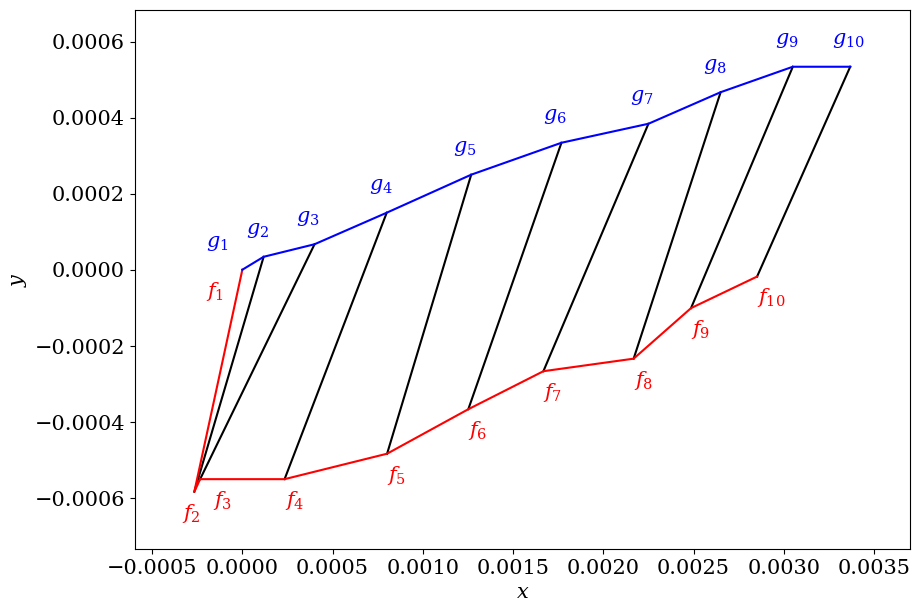
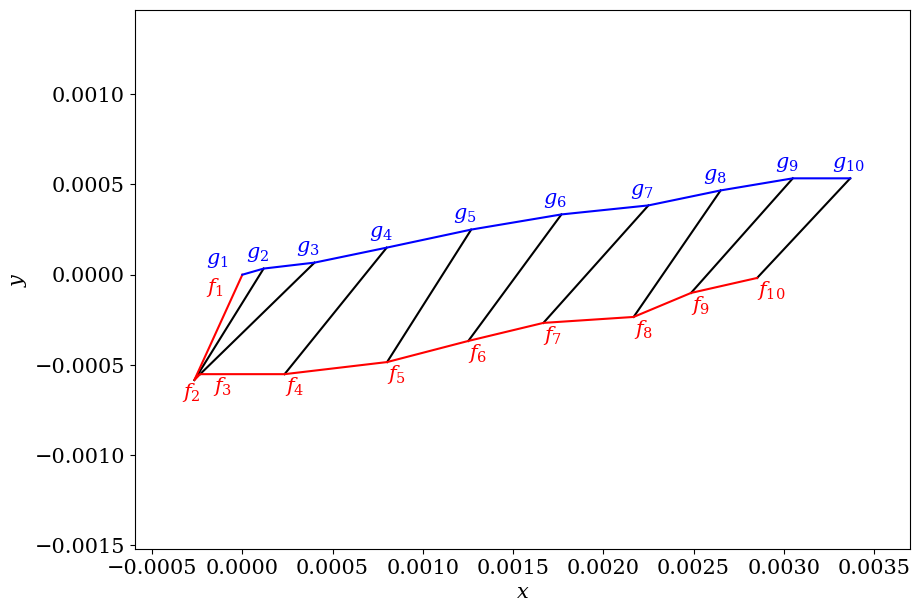
Add plot

diff --git a/illustrate.py b/illustrate.py
@@ -40,35 +40,191 @@ for subdir_name in actual_traj:
             lr = some_file
             
 print(min_len, lv, lr)
- 
+start_ix, end_ix = 0, 3
+print(actual_traj[lv][lr][0][0], actual_traj[lv][lr][1][0])
+print(long_dict[lv + "/cleaned_csv/" + lr]["long no abs"][0], lat_dict[lv + "/cleaned_csv/" + lr]["lat no abs"][0])
+print(len(long_dict[lv + "/cleaned_csv/" + lr]["long no abs"]), len(actual_traj[lv][lr][0]))
+plt.axis('equal')
+plt.plot(actual_traj[lv][lr][0][:10], actual_traj[lv][lr][1][:10], c = "b")
+plt.plot(long_dict[lv + "/cleaned_csv/" + lr]["long no abs"][:10], lat_dict[lv + "/cleaned_csv/" + lr]["lat no abs"][:10], c = "g")
+plt.plot(long_dict[lv + "/cleaned_csv/" + lr]["long speed dir"][:10], lat_dict[lv + "/cleaned_csv/" + lr]["lat speed dir"][:10], c = "r")
+plt.plot(long_dict[lv + "/cleaned_csv/" + lr]["long speed ones dir"][:10], lat_dict[lv + "/cleaned_csv/" + lr]["lat speed ones dir"][:10], c = "k")
+plt.show()
+plt.close()
+
+plt.figure(figsize=(15, 5))
 plt.rcParams['font.size'] = 20
 plt.rcParams['font.family'] = "serif"
 plt.rcParams["mathtext.fontset"] = "dejavuserif"
-plt.plot(actual_traj[lv][lr][0][:3], actual_traj[lv][lr][1][:3], c = "b")
-for xval_ix in range(len(actual_traj[lv][lr][0][:3]) - 1):
+plt.axis('equal')
+plt.plot(actual_traj[lv][lr][0][start_ix:end_ix], actual_traj[lv][lr][1][start_ix:end_ix], c = "b")
+for xval_ix in range(start_ix, end_ix):
     xval = actual_traj[lv][lr][0][xval_ix]
     yval = actual_traj[lv][lr][1][xval_ix]
     xval_next = actual_traj[lv][lr][0][xval_ix + 1]
     yval_next = actual_traj[lv][lr][1][xval_ix + 1]
     
-    yvals = np.arange(yval, yval_next, (yval_next - yval) / 1000)
+    yvals = np.arange(min(yval, yval_next), max(yval, yval_next) + 10 ** -20, (abs(yval_next - yval) + 10 ** -20) / 1000)
     xvals_first = [xval for val in yvals]
     xvals_second = [xval_next for val in yvals]
-    xvals = np.arange(xval, xval_next, (xval_next - xval) / 1000)
+    xvals = np.arange(min(xval, xval_next), max(xval, xval_next) + 10 ** -20, (abs(xval_next - xval) + 10 ** -20) / 1000)
     yvals_first = [yval for val in xvals]
     yvals_second = [yval_next for val in xvals]
-    #plt.plot(xvals_first, yvals, c = "r")
-    plt.plot(xvals_second, yvals, c = "r")
-    plt.plot(xvals, yvals_first, c = "r")
-    plt.text((xval + xval_next) / 2 - abs(xval - xval_next) / 4, yval + abs(yval - yval_next) / 8, "$x_{" + str(xval_ix + 2) + "}-x_{" + str(xval_ix + 1) + "}$")
+ 
     if xval_ix == 0:
-        plt.text(xval_next + abs(xval - xval_next) / 16, (yval + yval_next) / 2, "$y_{" + str(xval_ix + 2) + "}-y_{" + str(xval_ix + 1) + "}$")
+        plt.text((xval + xval_next) / 2 - abs(xval - xval_next) / 12, yval + abs(yval - yval_next) / 6, "$\Delta x_{" + str(xval_ix + 1) + "} = x_{" + str(xval_ix + 2) + "}-x_{" + str(xval_ix + 1) + "}$")
     else:
-        plt.text(xval_next - abs(xval - xval_next) / 3, (yval + yval_next) / 2, "$y_{" + str(xval_ix + 2) + "}-y_{" + str(xval_ix + 1) + "}$")
+        plt.text((xval + xval_next) / 2 - abs(xval - xval_next) / 5, yval_next - abs(yval - yval_next) / 3, "$\Delta x_{" + str(xval_ix + 1) + "} = x_{" + str(xval_ix + 2) + "}-x_{" + str(xval_ix + 1) + "}$")
 
-    #plt.plot(xvals, yvals_second, c = "r")
+    if xval_ix == 0:
+        plt.text(xval_next + abs(xval - xval_next) / 40, (yval + yval_next) / 2 - abs(yval - yval_next) / 6, "$\Delta y_{" + str(xval_ix + 1) + "} = y_{" + str(xval_ix + 2) + "}-y_{" + str(xval_ix + 1) + "}$")
+    else:
+        plt.text(xval - abs(xval - xval_next) / 4, (yval + yval_next) / 2 - abs(yval - yval_next) / 8, "$\Delta y_{" + str(xval_ix + 1) + "} = y_{" + str(xval_ix + 2) + "}-y_{" + str(xval_ix + 1) + "}$")
+
+    if xval_ix == 0:
+        plt.plot(xvals_second, yvals, c = "r")
+        plt.plot(xvals, yvals_first, c = "r")
+    else:
+        plt.plot(xvals_first, yvals, c = "r")
+        plt.plot(xvals, yvals_second, c = "r")
+
     print(len(xvals_first), yval, yval_next) 
 
+plt.title("Example")
+plt.xlabel("x")
+plt.ylabel("y")
+plt.show()
+plt.close()
+
+plt.figure(figsize=(15, 5))
+plt.rcParams['font.size'] = 20
+plt.rcParams['font.family'] = "serif"
+plt.rcParams["mathtext.fontset"] = "dejavuserif"
+plt.axis('equal')
+plt.plot(long_dict[lv + "/cleaned_csv/" + lr]["long no abs"][start_ix:end_ix], lat_dict[lv + "/cleaned_csv/" + lr]["lat no abs"][start_ix:end_ix], c = "b")
+for xval_ix in range(start_ix, end_ix):
+    xval = long_dict[lv + "/cleaned_csv/" + lr]["long no abs"][xval_ix]
+    yval = lat_dict[lv + "/cleaned_csv/" + lr]["lat no abs"][xval_ix]
+    xval_next = long_dict[lv + "/cleaned_csv/" + lr]["long no abs"][xval_ix + 1]
+    yval_next = lat_dict[lv + "/cleaned_csv/" + lr]["lat no abs"][xval_ix + 1]
+    
+    yvals = np.arange(min(yval, yval_next), max(yval, yval_next) + 10 ** -20, (abs(yval_next - yval) + 10 ** -20) / 1000)
+    xvals_first = [xval for val in yvals]
+    xvals_second = [xval_next for val in yvals]
+    xvals = np.arange(min(xval, xval_next), max(xval, xval_next) + 10 ** -20, (abs(xval_next - xval) + 10 ** -20) / 1000)
+    yvals_first = [yval for val in xvals]
+    yvals_second = [yval_next for val in xvals]
+ 
+    if xval_ix == 0:
+        plt.text((xval + xval_next) / 2 - abs(xval - xval_next) / 12, yval + abs(yval - yval_next) / 6, "$x_{" + str(xval_ix + 2) + "} = x_{" + str(xval_ix + 1) + "} + \Delta x_{" + str(xval_ix + 1) + "}$")
+    else:
+        plt.text((xval + xval_next) / 2 - abs(xval - xval_next) / 5, yval_next - abs(yval - yval_next) / 3, "$x_{" + str(xval_ix + 2) + "} = x_{" + str(xval_ix + 1) + "} + \Delta x_{" + str(xval_ix + 1) + "}$")
+
+    if xval_ix == 0:
+        plt.text(xval_next + abs(xval - xval_next) / 40, (yval + yval_next) / 2 - abs(yval - yval_next) / 6, "$y_{" + str(xval_ix + 2) + "} = y_{" + str(xval_ix + 1) + "} + \Delta y_{" + str(xval_ix + 1) + "}$")
+    else:
+        plt.text(xval - abs(xval - xval_next) / 4, (yval + yval_next) / 2 - abs(yval - yval_next) / 8, "$y_{" + str(xval_ix + 2) + "} = y_{" + str(xval_ix + 1) + "} + \Delta y_{" + str(xval_ix + 1) + "}$")
+
+    if xval_ix == 0:
+        plt.plot(xvals_second, yvals, c = "r")
+        plt.plot(xvals, yvals_first, c = "r")
+    else:
+        plt.plot(xvals_first, yvals, c = "r")
+        plt.plot(xvals, yvals_second, c = "r")
+
+    print(len(xvals_first), yval, yval_next) 
+
+plt.title("Example")
+plt.xlabel("x")
+plt.ylabel("y")
+plt.show()
+plt.close()
+
+plt.figure(figsize=(15, 5))
+plt.rcParams['font.size'] = 20
+plt.rcParams['font.family'] = "serif"
+plt.rcParams["mathtext.fontset"] = "dejavuserif"
+plt.axis('equal')
+plt.plot(long_dict[lv + "/cleaned_csv/" + lr]["long speed dir"][start_ix:end_ix], lat_dict[lv + "/cleaned_csv/" + lr]["lat speed dir"][start_ix:end_ix], c = "b")
+for xval_ix in range(start_ix, end_ix):
+    xval = long_dict[lv + "/cleaned_csv/" + lr]["long speed dir"][xval_ix]
+    yval = lat_dict[lv + "/cleaned_csv/" + lr]["lat speed dir"][xval_ix]
+    xval_next = long_dict[lv + "/cleaned_csv/" + lr]["long speed dir"][xval_ix + 1]
+    yval_next = lat_dict[lv + "/cleaned_csv/" + lr]["lat speed dir"][xval_ix + 1]
+    
+    yvals = np.arange(min(yval, yval_next), max(yval, yval_next) + 10 ** -20, (abs(yval_next - yval) + 10 ** -20) / 1000)
+    xvals_first = [xval for val in yvals]
+    xvals_second = [xval_next for val in yvals]
+    xvals = np.arange(min(xval, xval_next), max(xval, xval_next) + 10 ** -20, (abs(xval_next - xval) + 10 ** -20) / 1000)
+    yvals_first = [yval for val in xvals]
+    yvals_second = [yval_next for val in xvals]
+ 
+    if xval_ix == 0:
+        plt.text((xval + xval_next) / 2 - abs(xval - xval_next) / 12, yval + abs(yval - yval_next) / 6, "$x_{" + str(xval_ix + 2) + "} = x_{" + str(xval_ix + 1) + "} + \Delta x_{" + str(xval_ix + 1) + "}$")
+    else:
+        plt.text((xval + xval_next) / 2 - abs(xval - xval_next) / 5, yval_next - abs(yval - yval_next) / 3, "$\Delta x_{" + str(xval_ix + 1) + "} = x_{" + str(xval_ix + 2) + "}-x_{" + str(xval_ix + 1) + "}$")
+
+    if xval_ix == 0:
+        plt.text(xval_next + abs(xval - xval_next) / 40, (yval + yval_next) / 2 - abs(yval - yval_next) / 6, "$\Delta y_{" + str(xval_ix + 1) + "} = y_{" + str(xval_ix + 2) + "}-y_{" + str(xval_ix + 1) + "}$")
+    else:
+        plt.text(xval - abs(xval - xval_next) / 4, (yval + yval_next) / 2 - abs(yval - yval_next) / 8, "$\Delta y_{" + str(xval_ix + 1) + "} = y_{" + str(xval_ix + 2) + "}-y_{" + str(xval_ix + 1) + "}$")
+
+    if xval_ix == 0:
+        plt.plot(xvals_second, yvals, c = "r")
+        plt.plot(xvals, yvals_first, c = "r")
+    else:
+        plt.plot(xvals_first, yvals, c = "r")
+        plt.plot(xvals, yvals_second, c = "r")
+
+    print(len(xvals_first), yval, yval_next) 
+
+plt.title("Example")
+plt.xlabel("x")
+plt.ylabel("y")
+plt.show()
+plt.close()
+
+plt.figure(figsize=(15, 5))
+plt.rcParams['font.size'] = 20
+plt.rcParams['font.family'] = "serif"
+plt.rcParams["mathtext.fontset"] = "dejavuserif"
+plt.axis('equal')
+plt.plot(long_dict[lv + "/cleaned_csv/" + lr]["long speed ones dir"][start_ix:end_ix], lat_dict[lv + "/cleaned_csv/" + lr]["lat speed ones dir"][start_ix:end_ix], c = "b")
+for xval_ix in range(start_ix, end_ix):
+    xval = long_dict[lv + "/cleaned_csv/" + lr]["long speed ones dir"][xval_ix]
+    yval = lat_dict[lv + "/cleaned_csv/" + lr]["lat speed ones dir"][xval_ix]
+    xval_next = long_dict[lv + "/cleaned_csv/" + lr]["long speed ones dir"][xval_ix + 1]
+    yval_next = lat_dict[lv + "/cleaned_csv/" + lr]["lat speed ones dir"][xval_ix + 1]
+    
+    yvals = np.arange(min(yval, yval_next), max(yval, yval_next) + 10 ** -20, (abs(yval_next - yval) + 10 ** -20) / 1000)
+    xvals_first = [xval for val in yvals]
+    xvals_second = [xval_next for val in yvals]
+    xvals = np.arange(min(xval, xval_next), max(xval, xval_next) + 10 ** -20, (abs(xval_next - xval) + 10 ** -20) / 1000)
+    yvals_first = [yval for val in xvals]
+    yvals_second = [yval_next for val in xvals]
+ 
+    if xval_ix == 0:
+        plt.text((xval + xval_next) / 2 - abs(xval - xval_next) / 12, yval + abs(yval - yval_next) / 6, "$x_{" + str(xval_ix + 2) + "} = x_{" + str(xval_ix + 1) + "} + \Delta x_{" + str(xval_ix + 1) + "}$")
+    else:
+        plt.text((xval + xval_next) / 2 - abs(xval - xval_next) / 5, yval_next - abs(yval - yval_next) / 3, "$\Delta x_{" + str(xval_ix + 1) + "} = x_{" + str(xval_ix + 2) + "}-x_{" + str(xval_ix + 1) + "}$")
+
+    if xval_ix == 0:
+        plt.text(xval_next + abs(xval - xval_next) / 40, (yval + yval_next) / 2 - abs(yval - yval_next) / 6, "$\Delta y_{" + str(xval_ix + 1) + "} = y_{" + str(xval_ix + 2) + "}-y_{" + str(xval_ix + 1) + "}$")
+    else:
+        plt.text(xval - abs(xval - xval_next) / 4, (yval + yval_next) / 2 - abs(yval - yval_next) / 8, "$\Delta y_{" + str(xval_ix + 1) + "} = y_{" + str(xval_ix + 2) + "}-y_{" + str(xval_ix + 1) + "}$")
+
+    if xval_ix == 0:
+        plt.plot(xvals_second, yvals, c = "r")
+        plt.plot(xvals, yvals_first, c = "r")
+    else:
+        plt.plot(xvals_first, yvals, c = "r")
+        plt.plot(xvals, yvals_second, c = "r")
+
+    print(len(xvals_first), yval, yval_next) 
+
+plt.title("Example")
+plt.xlabel("x")
+plt.ylabel("y")
 plt.show()
 plt.close()
 

diff --git a/plots_present_actual_traj.py b/plots_present_actual_traj.py
@@ -213,6 +213,7 @@ def plot_trapezoid_left(f, g, x, str_pr, filename):
 def plot_all(fx, fy, gx, gy, maxnum, filename):  
     plt.rcParams['font.size'] = 15 
     plt.figure(figsize=(10, 7))
+    plt.axis('equal')
     for i in range(len(fx[:maxnum])):  
         plt.plot([fx[i], gx[i]], [fy[i], gy[i]], color='k')
         if i == 0:
@@ -220,7 +221,7 @@ def plot_all(fx, fy, gx, gy, maxnum, filename):
                 plt.text(fx[i] - 0.0002, fy[i] + 0.00007,'$f_{' + str(i + 1) + '}$', size=15, color='r')
                 plt.text(gx[i] - 0.0002, gy[i] - 0.00006, '$g_{' + str(i + 1) + '}$', size=15, color='b')
             else:
-                plt.text(fx[i] - 0.0002, fy[i] - 0.00007,'$f_{' + str(i + 1) + '}$', size=15, color='r')
+                plt.text(fx[i] - 0.0002, fy[i] - 0.0001,'$f_{' + str(i + 1) + '}$', size=15, color='r')
                 plt.text(gx[i] - 0.0002, gy[i] + 0.00006, '$g_{' + str(i + 1) + '}$', size=15, color='b')
         else:
             if fy[i] > gy[i]:
@@ -235,11 +236,11 @@ def plot_all(fx, fy, gx, gy, maxnum, filename):
             else:
                 if i < 3:
                     if i % 2:
-                        plt.text(fx[i] - 0.00007, fy[i] - 0.00007,'$f_{' + str(i + 1) + '}$', size=15, color='r')
+                        plt.text(fx[i] - 0.00007, fy[i] - 0.0001,'$f_{' + str(i + 1) + '}$', size=15, color='r')
                     else:
-                        plt.text(fx[i] + 0.00007, fy[i] - 0.00007,'$f_{' + str(i + 1) + '}$', size=15, color='r') 
+                        plt.text(fx[i] + 0.00007, fy[i] - 0.0001,'$f_{' + str(i + 1) + '}$', size=15, color='r') 
                 else:    
-                    plt.text(fx[i], fy[i] - 0.00007,'$f_{' + str(i + 1) + '}$', size=15, color='r')
+                    plt.text(fx[i], fy[i] - 0.0001,'$f_{' + str(i + 1) + '}$', size=15, color='r')
                 plt.text(gx[i] - 0.0001, gy[i] + 0.00006, '$g_{' + str(i + 1) + '}$', size=15, color='b')
     plt.plot(fx[:maxnum], fy[:maxnum], c = "r")
     plt.plot(gx[:maxnum], gy[:maxnum], c = "b")
